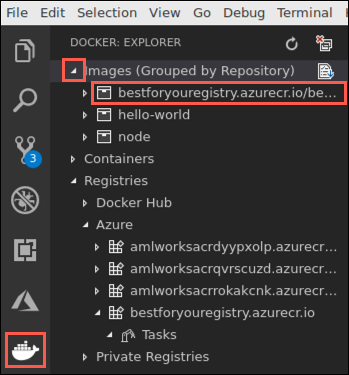
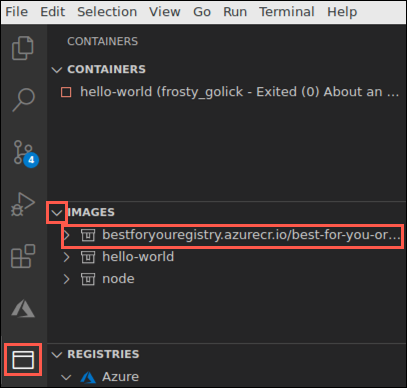
Exercise 4 updates

diff --git a/Hands-on lab/HOL step-by step - OSS PaaS and DevOps.md b/Hands-on lab/HOL step-by step - OSS PaaS and DevOps.md
@@ -42,7 +42,7 @@ Microsoft and the trademarks listed at <https://www.microsoft.com/en-us/legal/in
     - [Task 4: Install Azure Tools extensions for VS Code](#task-4-install-azure-tools-extensions-for-vs-code)
     - [Task 5: Decrease collection throughput](#task-5-decrease-collection-throughput)
   - [Exercise 3: Containerize the app](#exercise-3-containerize-the-app)
-    - [Task 1: Install Docker extension in VS Code](#task-1-install-docker-extension-in-vs-code)
+    - [Task 1: Open Azure Container Registry with Docker extension in VS Code](#task-1-open-azure-container-registry-with-docker-extension-in-vs-code)
     - [Task 2: Create a Docker image and run the app](#task-2-create-a-docker-image-and-run-the-app)
     - [Task 3: Run the containerized app](#task-3-run-the-containerized-app)
     - [Task 4: Push the image to Azure Container Registry](#task-4-push-the-image-to-azure-container-registry)
@@ -599,21 +599,17 @@ Duration: 30 minutes
 
 This exercise walks you through containerizing the existing Best For You Organics Company MERN application using Docker, pushing the image to an **Azure Container Registry**, then deploying the image to **Web App for Containers** directly from VS Code.
 
-### Task 1: Install Docker extension in VS Code
+### Task 1: Open Azure Container Registry with Docker extension in VS Code
 
 The Docker extension for VS Code is used to simplify the management of local Docker images and commands, as well as the deployment of a built app image to Azure.
 
 1. On your Lab VM, return to VS Code and the open `MCW-OSS-PaaS-and-DevOps` starter project.
 
-2. Select the **Extensions icon** from the left-hand menu, enter "docker" into the search box, select the **Docker** extension, and in the **Extension: Docker** window, and then select **Install**.
-
-   ![Extensions is highlighted in the Visual Studio Code navigation pane, docker is entered in the Extensions search box, Docker is highlighted below, and Install is highlighted on the right.](media/vscode-extensions-docker.png "Visual Studio Code window")
-
-3. You should now see a Docker icon appear in the left-hand menu of Visual Studio Code. Select the **Docker** icon. Expand **Registries** and then expand **Azure**. If you do not see Azure listed, select **Connect registry** and select **Azure** from the list of registries. You should see the **bestforyouregistry** you created above listed.
+2. You should see a Containers icon in the left-hand menu of Visual Studio Code. Select the **Containers** icon. Expand **Registries** and then expand **Azure**. If you do not see Azure listed, select **Connect registry** and select **Azure** from the list of registries. You should see the **bestforyouregistry** you created above listed.
 
    ![In the Docker VS Code extension, Registries and Azure are expanded, and the bestforyouregistry is highlighted.](media/vscode-extension-docker-registries.png "Docker extension")
 
-   > **Note**: If you don't see the Docker icon in the left-hand menu, close and reopen VS Code, and the `MCW-OSS-PaaS-and-DevOps` project.
+   > **Note**: If you don't see the Containers icon in the left-hand menu, close and reopen VS Code, and the `MCW-OSS-PaaS-and-DevOps` project.
 
 ### Task 2: Create a Docker image and run the app
 
@@ -723,39 +719,43 @@ In this task, you are going to push the image to your Azure Container Registry.
 
    ![The bestforyouregistry Container registry is highlighted in the list of resources on the Azure portal.](media/azure-rg-bestforyouregistry.png "List of resources")
 
-2. On the **bestforyouregistrySUFFIX** blade, select **Access keys** under settings in the left-hand menu, and leave this page up as you will be referencing the **Login server**, **Username**, and **password** in the next task.
+2. On the **bestforyouregistrySUFFIX** blade, select **Access keys** under settings in the left-hand menu and then select **Enable** under **Admin user**.
+
+    ![The Enable option is selected and highlighted for the Admin user on the Container registry Access keys blade.](media/container-registry-enable-admin-user.png "Enable admin user")
+
+3. Leave this page up as you will be referencing the **Login server**, **Username**, and **password** in the next task.
 
    ![Access keys is selected under Settings on the Azure Container registry's Access keys blade, and the values in the Login server, Username, and Name boxes are highlighted on the right.](media/acr-access-keys.png "Container Registry blade")
 
-3. Return to the Integrated terminal window in VS Code and enter the following command to log in to your Azure Container Registry, replacing the bracketed values with those from the container registry access keys page.
+4. Return to the Integrated terminal window in VS Code and enter the following command to log in to your Azure Container Registry, replacing the bracketed values with those from the container registry access keys page.
 
    ```bash
    docker login [Login Server] -u [Username]
    ```
 
-4. For example:
+5. For example:
 
    ```bash
    docker login bestforyouregistry.azurecr.io -u bestforyouregistry
    ```
 
-5. Copy and paste the Container registry password when prompted to complete the login process.
+6. Copy and paste the Container registry password when prompted to complete the login process.
 
    ![This is a screenshot of the password prompt in the Visual Studio Code Integrated terminal window.](media/vscode-terminal-docker-login.png "Integrated terminal window")
 
-6. Once you are successfully logged in, expand the bestforyouregistry image in the Docker extension section of the VS Code, right-click on the latest image, and select **Push**.
+7. Once you are successfully logged in, expand the bestforyouregistry image in the Docker extension section of the VS Code, right-click on the latest image, and select **Push**.
 
    ![The image is selected in the Images area of the Docker extension explorer, and Push is highlighted in the shortcut menu.](media/vscode-docker-push.png "Docker extension explorer")
 
-7. If prompted to set the default registry path, select **Yes**.
+8. If prompted to set the default registry path, select **Yes**.
 
    ![Yes is highlighted on the dialog to set the default registry path.](media/vscode-extensions-docker-push.png "Set default registry path")
 
-8. Note the "docker push" command issued in the terminal window.
+9.  Note the "docker push" command issued in the terminal window.
 
    ![This is a screenshot of the docker push command in the Visual Studio Code Integrated terminal window.](media/vscode-terminal-docker-push.png "Integrated terminal window")
 
-9. To verify the push, return to the **bestforyouregistry** Registry container blade in the Azure portal, and select **Repositories** under **Services** on the left-hand side, and note the **best-for-you-organics** repository.
+11. To verify the push, return to the **bestforyouregistry** Registry container blade in the Azure portal, and select **Repositories** under **Services** on the left-hand side, and note the **best-for-you-organics** repository.
 
    ![In your Azure Container Registry's repository, Repositories is selected and highlighted under Services, and best-for-you-organics is highlighted under Repositories.](media/acr-repositories.png "Container registry blade")
 
